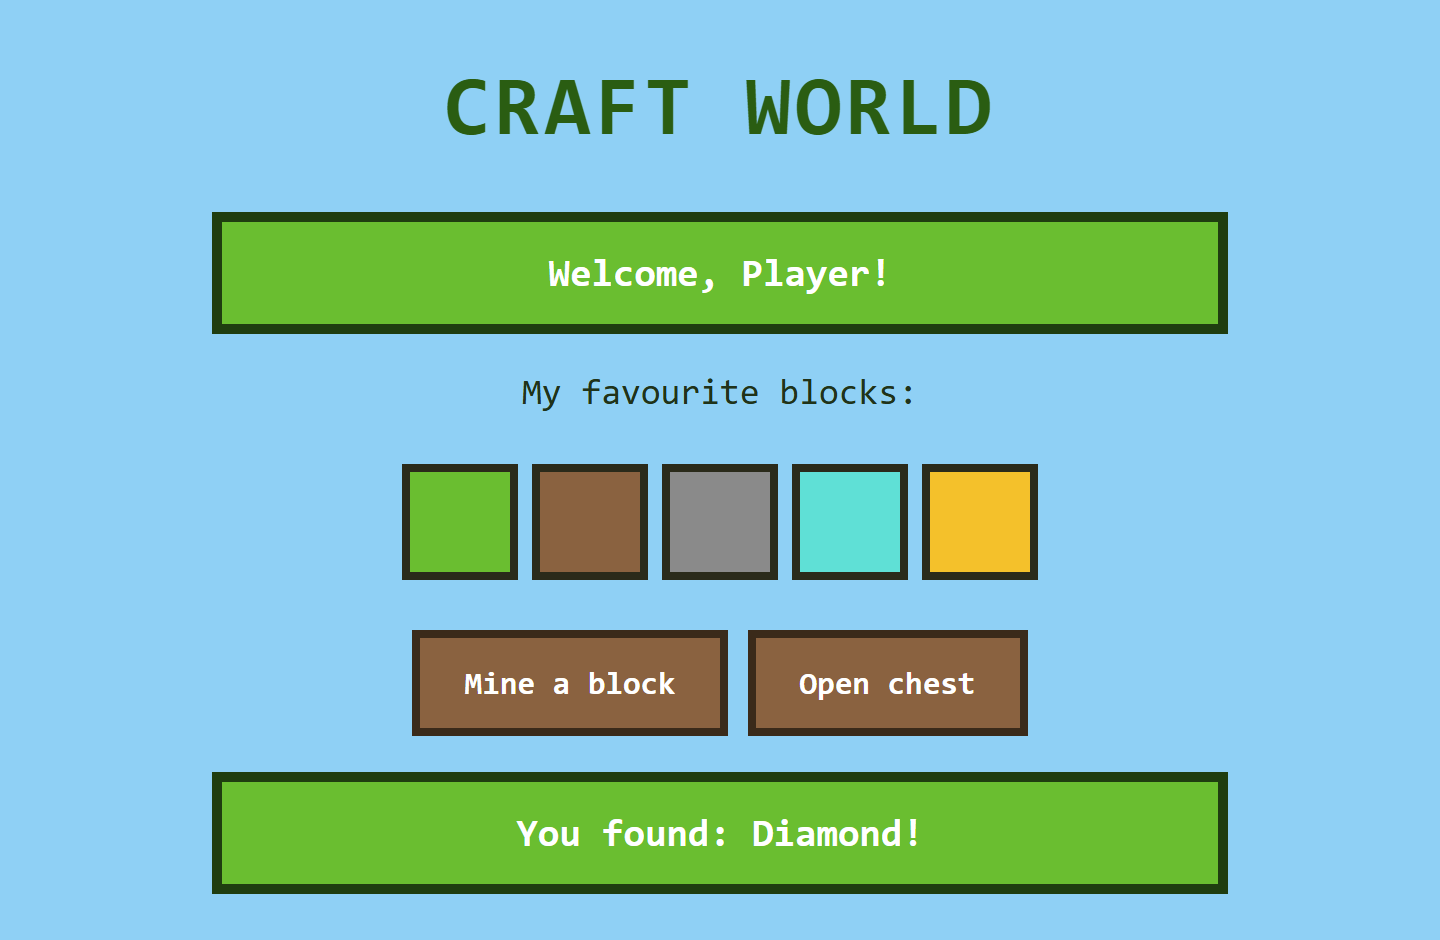
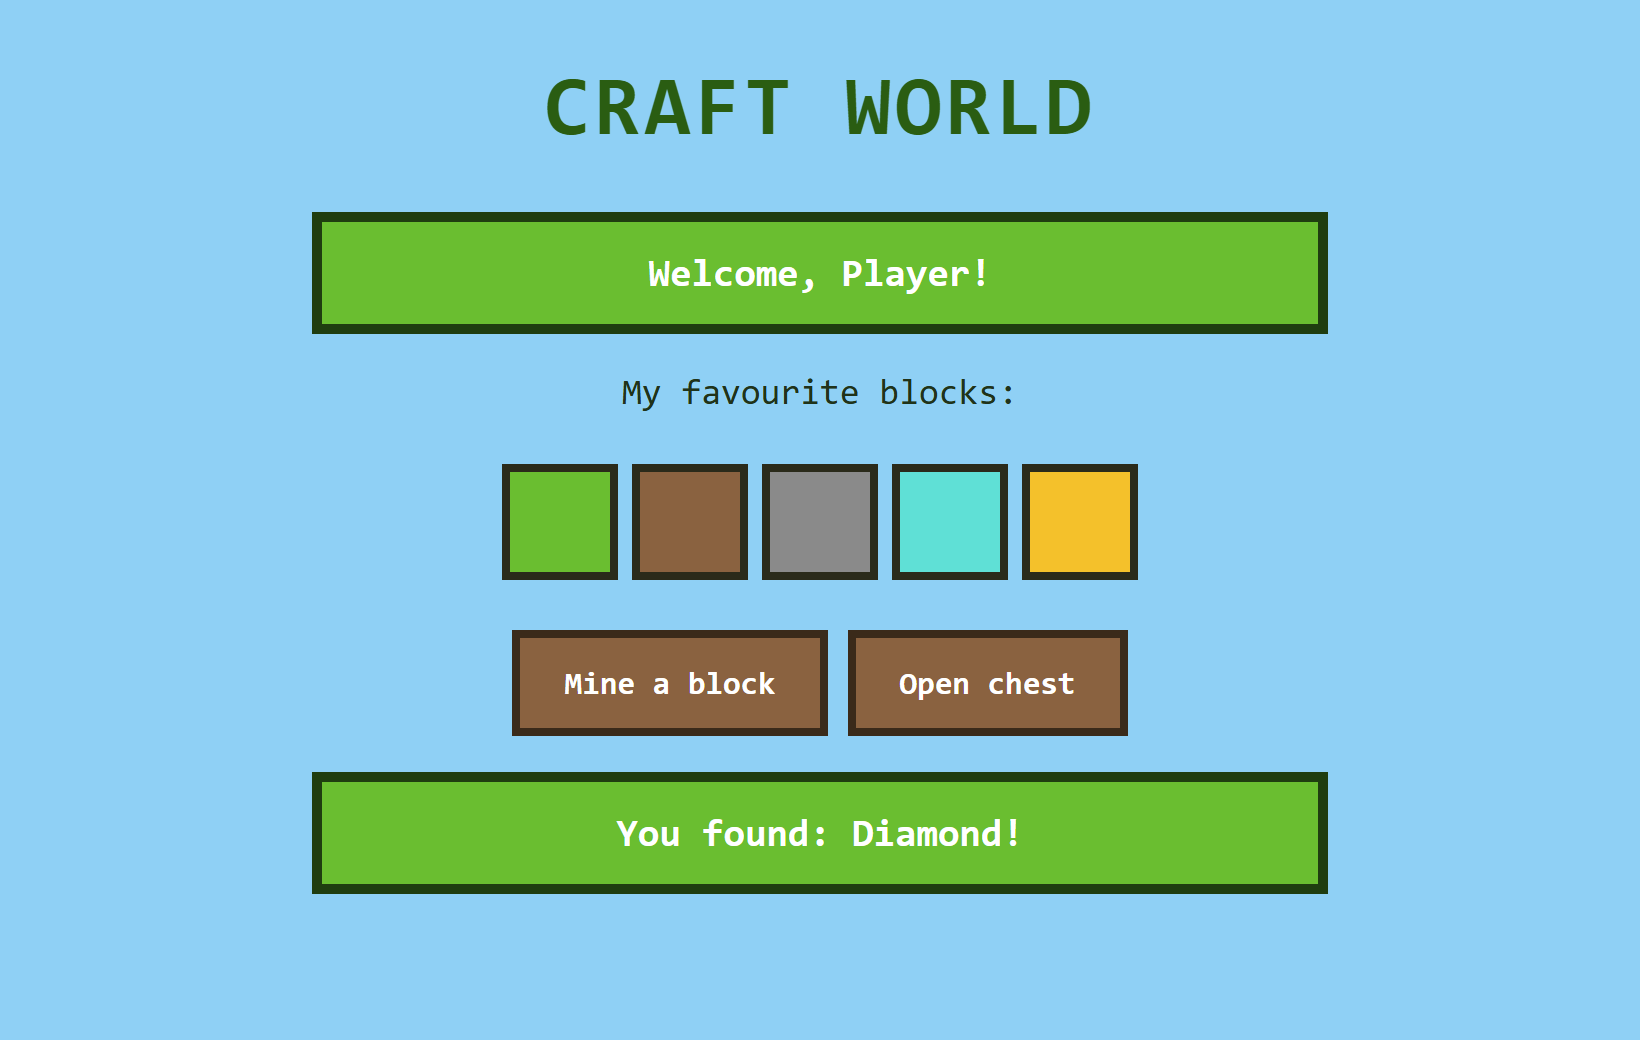
L8: mascots now clickable + talking (speech bubbles); add a sheep (hero) + an original purple monster 'Grumble' (finale); bigger craftworld showcase screenshot

diff --git a/practice-l8.html b/practice-l8.html
@@ -331,7 +331,7 @@ body{background:linear-gradient(180deg,#cfe9d4,#eef5ef) fixed #e3f1e6 !important
 .showcase{margin:16px 0 6px;border:3px solid #2a2a2a;background:#fff;box-shadow:5px 5px 0 rgba(0,0,0,.14)}
 .sc-head{background:#4e9c28;color:#fff;padding:11px 16px;font-family:'Press Start 2P',monospace;font-size:11px;line-height:1.7;text-shadow:2px 2px 0 rgba(0,0,0,.35)}
 .sc-head .star{color:#f9c52b}
-.sc-body{padding:16px;display:grid;grid-template-columns:1fr .82fr;gap:18px;align-items:center}
+.sc-body{padding:16px;display:grid;grid-template-columns:1.22fr .78fr;gap:18px;align-items:center}
 .sc-note{font-size:14.5px;color:#2a2a2a;line-height:1.65}
 .sc-note b{color:#2a5d12}.sc-note code{background:#eef2f6;padding:1px 5px;font-family:Consolas,monospace;font-size:.92em}
 .sc-win{border:3px solid #2a2a2a;box-shadow:3px 3px 0 rgba(0,0,0,.2)}
@@ -360,10 +360,16 @@ body{background:linear-gradient(180deg,#cfe9d4,#eef5ef) fixed #e3f1e6 !important
 .band.js{background:url('img/tex-dirt.png')}
 .band.your{background:url('img/tex-stone.png')}
 .band.ship{background:url('img/tex-plank.png')}
-.hero-mob{position:absolute;bottom:0;z-index:3;height:auto;image-rendering:pixelated;filter:drop-shadow(2px 3px 0 rgba(0,0,0,.32));animation:dig-bob 3s ease-in-out infinite}
-.hero-mob.mob-cube{right:168px;width:60px;animation-delay:.4s}
-.hero-mob.mob-pig{right:256px;bottom:4px;width:62px;animation-delay:.9s}
-@media(max-width:980px){.hero-mob{display:none}}
+.talkmob{position:absolute;bottom:0;z-index:3;cursor:pointer}
+.talkmob img{display:block;width:100%;height:auto;image-rendering:pixelated;filter:drop-shadow(2px 3px 0 rgba(0,0,0,.32));animation:dig-bob 3s ease-in-out infinite}
+.tm-cube{right:150px;width:56px}.tm-cube img{animation-delay:.3s}
+.tm-pig{right:232px;width:60px;bottom:2px}.tm-pig img{animation-delay:.7s}
+.tm-sheep{right:316px;width:62px;bottom:2px}.tm-sheep img{animation-delay:1.1s}
+.mob-bub{position:absolute;left:50%;bottom:110%;transform:translateX(-50%) translateY(6px);background:#fff;border:3px solid var(--mc-ink);box-shadow:3px 3px 0 rgba(0,0,0,.2);padding:7px 10px;font-family:'Press Start 2P',monospace;font-size:8px;line-height:1.7;color:#2a2a2a;max-width:150px;white-space:normal;text-align:center;opacity:0;pointer-events:none;transition:.16s;z-index:6}
+.talkmob.say .mob-bub{opacity:1;transform:translateX(-50%) translateY(0)}
+.finale{position:relative;overflow:visible}.closing{overflow:visible}
+.tm-monster{position:absolute;right:16px;bottom:-10px;width:64px}.tm-monster img{animation-delay:.5s}
+@media(max-width:980px){.talkmob{display:none}}
 </style><script>(function(){try{var ok=('IntersectionObserver' in window)&&!window.matchMedia('(prefers-reduced-motion:reduce)').matches;if(ok){var s=document.createElement('style');s.textContent='.mission,.anatomy,.band,.ex,.closing{opacity:0;transition:opacity .55s ease}';document.head.appendChild(s);document.documentElement.classList.add('anim');}}catch(e){}})();</script></head><body>
 <div class="progress-top" id="ptop"></div>
 <div class="wrap">
@@ -381,8 +387,9 @@ body{background:linear-gradient(180deg,#cfe9d4,#eef5ef) fixed #e3f1e6 !important
       <div class="wc-trophy">&#9935;</div>
     </div>
   <div class="hero-buddy"><svg viewBox="0 0 72 92" xmlns="http://www.w3.org/2000/svg" shape-rendering="crispEdges" aria-label="Digger the block miner"><rect x="54" y="18" width="6" height="36" fill="#7a5230"/><rect x="46" y="12" width="20" height="9" fill="#bfc8d0"/><rect x="46" y="12" width="7" height="9" fill="#8fa0ad"/><rect x="14" y="8" width="40" height="40" fill="#8a6240"/><rect x="14" y="8" width="40" height="10" fill="#6abe30"/><rect x="14" y="16" width="40" height="3" fill="#4e9c28"/><rect x="20" y="27" width="5" height="5" fill="#74502f"/><rect x="42" y="38" width="5" height="5" fill="#74502f"/><rect x="31" y="33" width="4" height="4" fill="#9c7144"/><rect x="22" y="26" width="7" height="8" fill="#ffffff"/><rect x="24" y="28" width="4" height="5" fill="#2a2a2a"/><rect x="39" y="26" width="7" height="8" fill="#ffffff"/><rect x="41" y="28" width="4" height="5" fill="#2a2a2a"/><rect x="28" y="41" width="12" height="3" fill="#3a2a1a"/><rect x="18" y="48" width="32" height="22" fill="#2a8c8c"/><rect x="18" y="48" width="32" height="4" fill="#37a3a3"/><rect x="30" y="52" width="8" height="14" fill="#1f6f6f"/><rect x="10" y="50" width="8" height="18" fill="#8a6240"/><rect x="50" y="50" width="8" height="16" fill="#8a6240"/><rect x="20" y="70" width="11" height="16" fill="#39516a"/><rect x="37" y="70" width="11" height="16" fill="#39516a"/><rect x="20" y="83" width="11" height="4" fill="#2a2a2a"/><rect x="37" y="83" width="11" height="4" fill="#2a2a2a"/></svg></div>
-  <img class="hero-mob mob-cube" src="img/mob-cube.png" alt="">
-  <img class="hero-mob mob-pig" src="img/mob-pig.png" alt="">
+  <span class="talkmob tm-cube" data-says="I&rsquo;m Blockie!|HTML builds it.|Stack those blocks!|Nice mining!"><span class="mob-bub"></span><img src="img/mob-cube.png" alt="Blockie the cube"></span>
+  <span class="talkmob tm-pig" data-says="Oink! Keep going.|I dig diamonds.|Off to the mines!|You got this!"><span class="mob-bub"></span><img src="img/mob-pig.png" alt="Pig"></span>
+  <span class="talkmob tm-sheep" data-says="Baa! Click Run.|Soft wool, sharp code.|One more tile!|Don&rsquo;t paste it!"><span class="mob-bub"></span><img src="img/mob-sheep.png" alt="Sheep"></span>
   </header>
 
   <section class="showcase">
@@ -984,6 +991,7 @@ body{background:linear-gradient(180deg,#cfe9d4,#eef5ef) fixed #e3f1e6 !important
 
   <div class="closing">
     <div class="finale">
+      <span class="talkmob tm-monster" data-says="GRR! You beat me.|Nice page, human.|Built it&hellip; impressive.|See you in L9!"><span class="mob-bub"></span><img src="img/mob-monster.png" alt="Grumble the monster"></span>
       <h3>You built a whole Minecraft web page - HTML, CSS and JavaScript together.</h3>
       <p>That is exactly how every real website works: <b>HTML</b> for the structure, <b>CSS</b> for the look, <b>JavaScript</b> for what happens when you click. You started the term with one tag, and you just shipped your own CRAFT WORLD page. <b>That is the whole job.</b> &#9935;</p>
     </div>
@@ -1340,4 +1348,18 @@ document.addEventListener("DOMContentLoaded", function(){
   setTimeout(function(){ refreshXP(true); }, 1300);  // seed level from any loaded progress
 })();
 </script>
+<script>(function(){
+  var mobs=document.querySelectorAll('.talkmob'); if(!mobs.length) return;
+  mobs.forEach(function(m){
+    var says=(m.getAttribute('data-says')||'').split('|').filter(Boolean);
+    var bub=m.querySelector('.mob-bub'); if(!says.length||!bub) return;
+    var last=-1;
+    function say(){ var i=Math.floor(Math.random()*says.length);
+      if(says.length>1){ while(i===last) i=Math.floor(Math.random()*says.length); } last=i;
+      bub.innerHTML=says[i]; m.classList.add('say'); clearTimeout(m._t);
+      m._t=setTimeout(function(){ m.classList.remove('say'); }, 2800); }
+    m.addEventListener('click', say);
+    m.addEventListener('mouseenter', say);
+  });
+})();</script>
 </body></html>
